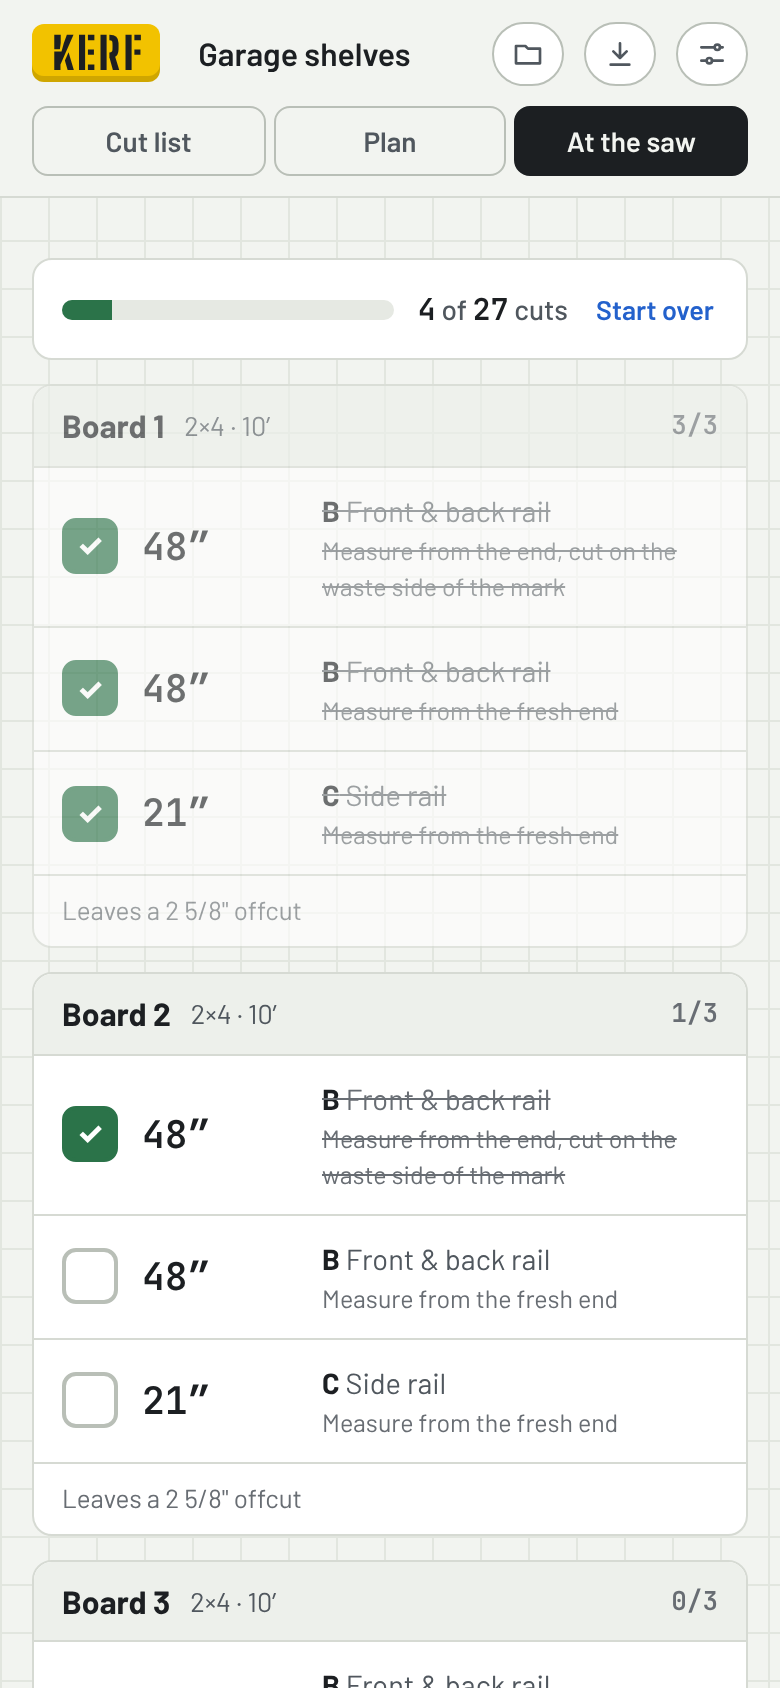
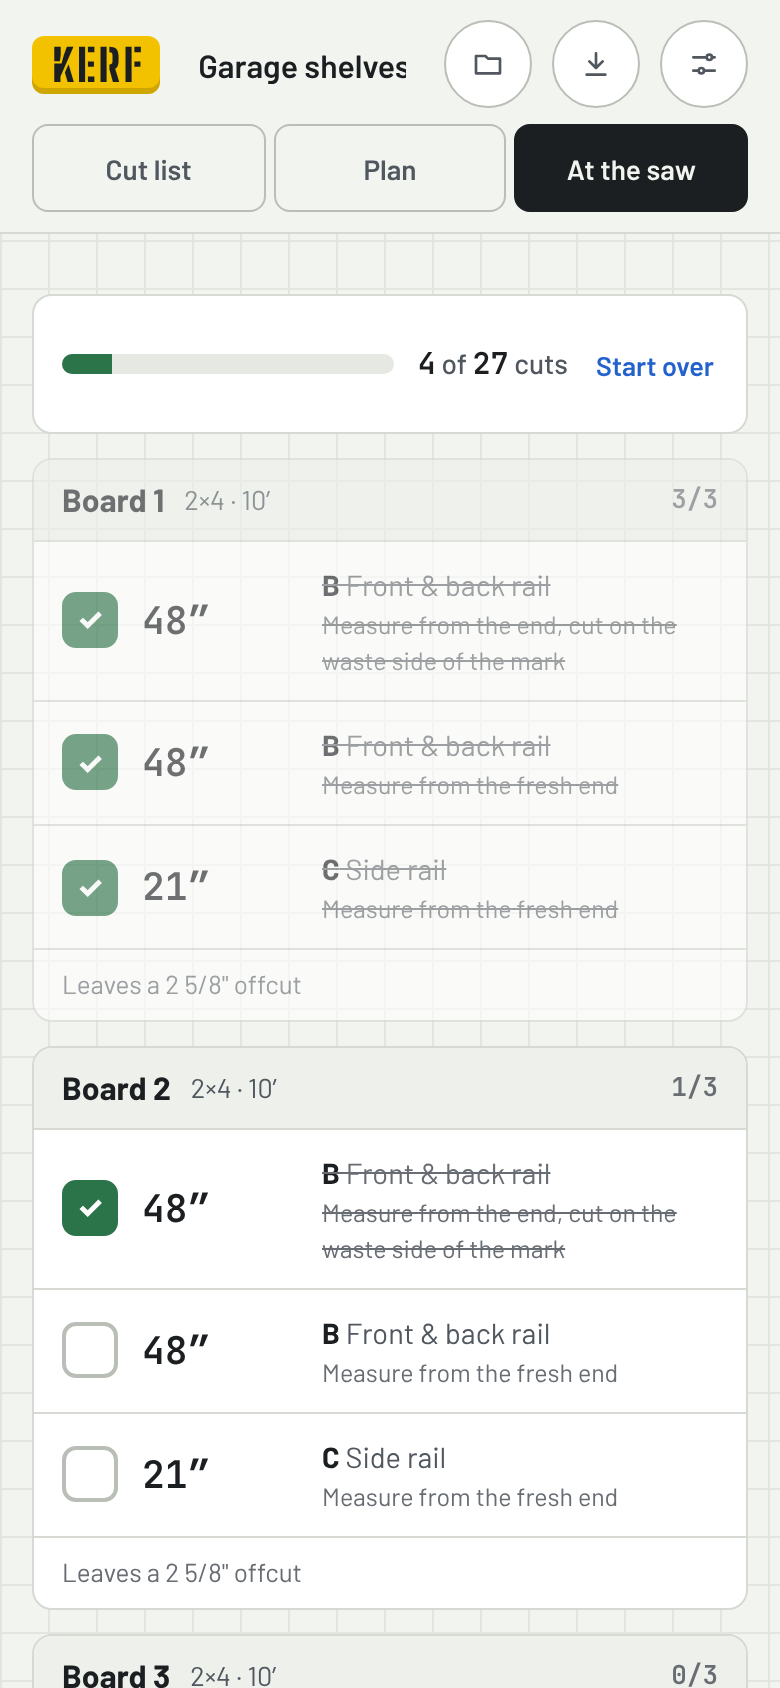
Redraw the phone screenshots
The README's phone pictures showed the old cut list, with each part on one line
and 30 px controls. They now show the two-line parts, the line on how to type
lengths, and the 44 px buttons and tabs, and the cut list's description says
what it shows. The link preview is unchanged.

Claude-Session: https://claude.ai/code/session_01PQbLNSZBMRZG8siQy7LTL3

diff --git a/README.md b/README.md
@@ -5,7 +5,7 @@
 **A cut-list optimizer for lumber and plywood.** List the parts a project needs; Kerf works out the cheapest boards and sheets to buy, draws how to cut each one, and gives you a checklist to work through at the saw. It installs as an app (from the browser's menu, or Share → Add to Home Screen on an iPhone) and works offline once it has loaded.
 
 <p align="center">
-  <img src="docs/phone-list.png" alt="The cut list for a set of garage shelves: 2×4 legs, front and back rails and side rails, and four ¾ plywood shelves with the grain locked, each with a quantity and a length, above the sizes you can buy and what they cost" width="250">
+  <img src="docs/phone-list.png" alt="The cut list for a set of garage shelves: how to type lengths, then the 2×4 legs, front and back rails and side rails, each named on one line with its quantity and length below, above the 2×4 sizes you can buy and what they cost" width="250">
   &nbsp;
   <img src="docs/phone-plan.png" alt="The plan: $100.64 to buy for 8 boards and 1 sheet in 27 cuts, a tip that making the front and back rails 47 15/16 inches instead of 48 makes the 2×4s $4.12 cheaper, and the shopping list" width="250">
   &nbsp;
